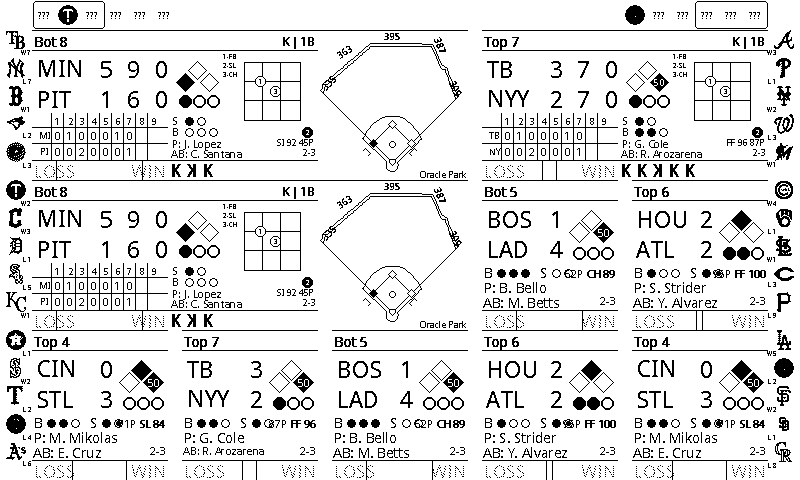
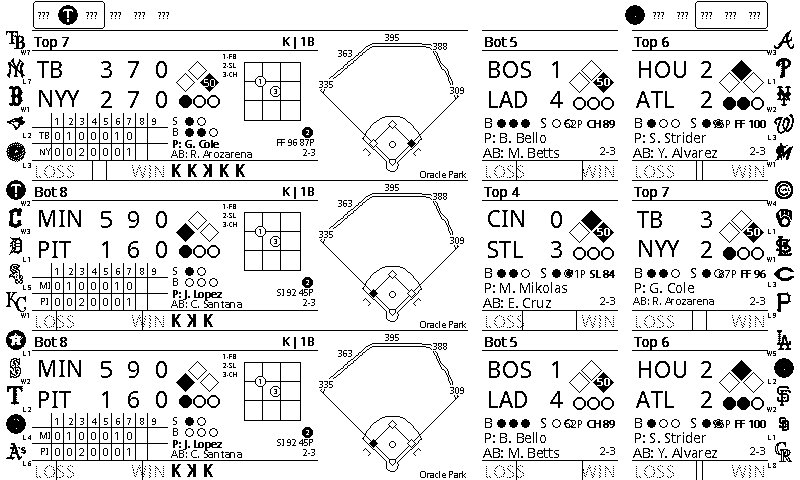
Update README and docs for fields mode; replace standalone field view
- README: rename 'field' → 'fields' mode throughout; replace Field View
  section with Fields Mode description (5×3 grid of venue diagrams);
  add bat-side batter figure mention to triple-cell description; add
  DISPLAY_MODE env var note; add fields mode to feature highlights table;
  remove field_view.py from project structure listing
- generate_docs.py: replace generate_field_mode() (field_view.py deleted)
  with generate_fields_mode() using draw_fields_grid; update demo GIF
  frame 5 to render the fields grid instead; remove field_view import
- Regenerate all docs screenshots; add docs/fields_mode.png, remove
  docs/field_mode.png

Claude-Session: https://claude.ai/code/session_01S8yjcZNoc7FbeEgbFEkg5E

diff --git a/scripts/generate_docs.py b/scripts/generate_docs.py
@@ -15,7 +15,7 @@ Produces:
     docs/tile_live_detail.png       — single live tile between-innings (cropped)
     docs/tile_final.png             — single final tile (cropped)
     docs/wide_cell.png              — wide (2-slot) live cell with pitch zone
-    docs/field_mode.png             — field diagram view
+    docs/fields_mode.png            — 5×3 fields-mode grid
     docs/pitch_mode.png             — pitch zone view
     docs/scorecard_mode.png         — at-bat scorecard view
     docs/standings_sidebar.png      — standings sidebar strip with streak badges
@@ -713,14 +713,50 @@ def generate_wide_cell():
     _save(wide, 'wide_cell.png', scale=3)
 
 
-def generate_field_mode():
-    """Generate field mode."""
-    print("Generating field_mode.png ...")
-    from field_view import render_field_view
+def generate_fields_mode():
+    """Generate fields mode — 5×3 grid of field-diagram cells."""
+    print("Generating fields_mode.png ...")
+    from image_grid import draw_fields_grid
 
+    def _with_hits(game, venue, hits, inning_state='Middle'):
+        g = dict(game)
+        g['venue'] = venue
+        g['inningState'] = inning_state
+        g['all_game_hits'] = hits
+        return g
+
+    _hits_yankee = [
+        {'x': 160, 'y': 170, 'is_hr': False, 'is_hit': True},
+        {'x':  80, 'y': 100, 'is_hr': True,  'is_hit': True},
+        {'x': 200, 'y': 195, 'is_hr': False, 'is_hit': False},
+        {'x': 175, 'y': 155, 'is_hr': False, 'is_hit': True},
+    ]
+    _hits_oracle = [
+        {'x': 150, 'y': 180, 'is_hr': False, 'is_hit': True},
+        {'x':  60, 'y': 120, 'is_hr': True,  'is_hit': True},
+        {'x': 220, 'y': 210, 'is_hr': False, 'is_hit': False},
+        {'x': 170, 'y': 160, 'is_hr': False, 'is_hit': True},
+        {'x': 100, 'y': 140, 'is_hr': False, 'is_hit': False},
+    ]
+    _hits_truist = [
+        {'x': 140, 'y': 175, 'is_hr': False, 'is_hit': True},
+        {'x': 185, 'y': 130, 'is_hr': True,  'is_hit': True},
+        {'x':  70, 'y': 145, 'is_hr': False, 'is_hit': False},
+    ]
+
+    games = (
+        [_with_hits(LIVE_GAMES[0], 'Yankee Stadium', _hits_yankee)]
+        + [_with_hits(LIVE_GAMES[1], 'Oracle Park', _hits_oracle)]
+        + [_with_hits(LIVE_GAMES[2], 'Truist Park', _hits_truist)]
+        + LIVE_GAMES[3:]
+        + FINAL_GAMES[:5]
+        + PREGAME_GAMES[:3]
+    )
+
+    img = Image.new('1', (800, 480), 255)
     with _NO_NETWORK:
-        img = render_field_view(_field_fixture())
-    _save(img, 'field_mode.png', scale=1)
+        img = draw_fields_grid(img, games, TEAM_DATA)
+    _save(img, 'fields_mode.png', scale=1)
 
 
 def generate_pitch_mode():
@@ -773,7 +809,6 @@ def generate_demo_gif():
     from image_grid import draw_out_of_town_score_board
     from image_box import draw_wide_box
     from image_standings import draw_standings_sidebar, draw_wildcard_header
-    from field_view import render_field_view
     from pitch_view import render_pitch_view
 
     frames = []
@@ -828,8 +863,10 @@ def generate_demo_gif():
         img = draw_standings_sidebar(img, STANDINGS_DATA, TEAM_DATA, side='right')
         _add(img, 4)
 
-        # Frame 5: Field view
-        img = render_field_view(_field_fixture())
+        # Frame 5: Fields mode grid
+        from image_grid import draw_fields_grid as _dfg
+        img = Image.new('1', (800, 480), 255)
+        img = _dfg(img, LIVE_GAMES * 3, TEAM_DATA)
         _add(img, 3)
 
         # Frame 6: Pitch view
@@ -867,7 +904,7 @@ def main():
     generate_tile_live_detail()
     generate_tile_final()
     generate_wide_cell()
-    generate_field_mode()
+    generate_fields_mode()
     generate_pitch_mode()
     generate_scorecard_mode()
     generate_standings_sidebar()

diff --git a/README.md b/README.md
@@ -10,7 +10,7 @@ Real-time MLB scoreboard for a **Waveshare 7.5″ V2 e-paper display** (800×480
 
 ## Display Modes
 
-Switch modes any time via `display_mode` in `config/config.yaml` or via the Discord bot. Valid modes: `scoreboard`, `field`, `scorecard`, `pitch`, `derby` (plus the legacy `linescore` two-game layout). The **idle screen** and **Home Run Derby** bracket appear automatically when conditions call for them — see below.
+Switch modes any time via `display_mode` in `config/config.yaml`, the `DISPLAY_MODE` environment variable (env wins), or the Discord bot. Valid modes: `scoreboard`, `fields`, `scorecard`, `pitch`, `derby` (plus the legacy `linescore` two-game layout). The **idle screen** and **Home Run Derby** bracket appear automatically when conditions call for them — see below.
 
 ### Scoreboard — 5×3 grid (15 games)
 
@@ -55,7 +55,7 @@ Wide-cell behavior is configurable:
 
 - `wide_cell_always` — always show a wide cell for the in-progress game farthest along, even with a full 15-game slate (one game is dropped to make room).
 - `wide_cell_featured` — reserve the wide cell for the primary team's game while it's live, falling back to the farthest-along game otherwise.
-- `triple_cell_live` — expand the featured live game to a **3-cell (435 px) tile**: score/linescore, pitch zone/situation, and a third cell with the venue outfield wall, infield diamond, and live runner positions. Falls back to a 2-cell tile when a 3-unit tile can't fit the column.
+- `triple_cell_live` — expand the featured live game to a **3-cell (435 px) tile**: score/linescore, pitch zone/situation, and a third cell with the venue outfield wall, infield diamond, live runner positions, and a **bat-side stick figure** at home plate indicating the batter's handedness (switch hitters draw both). Falls back to a 2-cell tile when a 3-unit tile can't fit the column.
 - `hide_non_live_games` — when at least one game is live, drop finished and not-yet-started games from the grid so live games can expand into wide/triple tiles (up to 3 live games get triple tiles). The pinned favorite game is never hidden.
 
 ---
@@ -118,11 +118,13 @@ Single-game focus mode for your primary team. Enable by setting `FEATURED_TEAM_F
 
 ---
 
-### Field View
+### Fields Mode
 
-Single-game display with a venue-accurate outfield diagram. All 30 MLB parks are supported — the fence is drawn as a multi-segment wall with LF/LCF/CF/RCF/RF distance labels. Every batted ball is plotted on the field (most recent: filled circle with crosshair; earlier hits: open circles). A mini strike zone overlay shows pitches for the current at-bat. The right panel shows score, inning, count, outs, batter/pitcher matchup, last play text, and a mini per-inning linescore.
+A 5×3 grid where every cell shows a **venue-accurate outfield diagram** and spray chart instead of the usual scoreboard tile. Live games are placed in the top-left slots; pre-game and final games fill the rest. Each cell has a compact header strip with team abbreviations, score, inning, and out count.
 
-![Field View](docs/field_mode.png)
+The field diagram itself is the same venue-accurate renderer used in the triple-cell mode — all 30 MLB parks are supported, with the fence drawn as a multi-segment wall and LF/LCF/CF/RCF/RF distance labels. During a game: recent batted balls are plotted as markers with Bézier flight arcs for balls with launch-angle data. Between half-innings: the full-game spray chart is shown for all batted balls.
+
+![Fields Mode](docs/fields_mode.png)
 
 ---
 
@@ -182,7 +184,8 @@ Shows R/H/E, **winning/losing pitcher** with record, and save. The winning team'
 | **Standings sidebar** | AL East/Central/West on left edge, NL on right — 1st through 5th |
 | **Streak badge** | `W7` / `L3` displayed below each team's logo in the standings sidebar |
 | **Movement indicator** | Line on sidebar outer edge when a team changed rank in the last 20 hours |
-| **Wide / triple cell** | Featured game gets a 2- or 3-slot tile with pitch zone, K strip, BSO, and outfield wall |
+| **Fields mode** | 5×3 grid of venue field diagrams + spray charts; live games top-left |
+| **Wide / triple cell** | Featured game gets a 2- or 3-slot tile with pitch zone, K strip, BSO, outfield wall, and bat-side batter figure |
 | **Hide non-live** | Drop finished/upcoming games so live games expand into wide/triple tiles |
 | **No-hitter alert** | Header inverts (white-on-black) when a no-hitter or perfect game is active ≥ 6th inning |
 | **Win probability** | Live bar with logos at their real-time win % position |
@@ -215,7 +218,8 @@ Edit `config/config.yaml`:
 
 ```yaml
 # ── Display mode ──────────────────────────────────────────────
-# scoreboard | linescore | field | scorecard | pitch | derby
+# scoreboard | linescore | fields | scorecard | pitch | derby
+# DISPLAY_MODE env var overrides this (useful for one-off mode switches without editing YAML)
 display_mode: scoreboard
 auto_derby_mode: true        # auto-show the Derby bracket on Derby day when no games
 
@@ -327,6 +331,9 @@ poetry run python main.py --sport-id 8   # World Baseball Classic
 
 # Fullscreen featured game (primary team, single-game focus)
 FEATURED_TEAM_FULLSCREEN=true poetry run python main.py
+
+# Override display mode for one run without editing config.yaml
+DISPLAY_MODE=fields poetry run python main.py
 ```
 
 **Crontab** — run every 14 minutes:
@@ -420,7 +427,6 @@ mlb_display/
 │   ├── image_box.py              # Per-tile drawing (draw_box)
 │   ├── image_featured.py         # Fullscreen featured-game renderer (draw_featured_game_fullscreen)
 │   ├── image_standings.py        # Standings sidebar + wildcard strip
-│   ├── field_view.py             # Field diagram renderer
 │   ├── scorecard_view.py         # At-bat scorecard renderer
 │   ├── pitch_view.py             # Pitch location renderer
 │   ├── image_derby.py            # Home Run Derby bracket renderer
